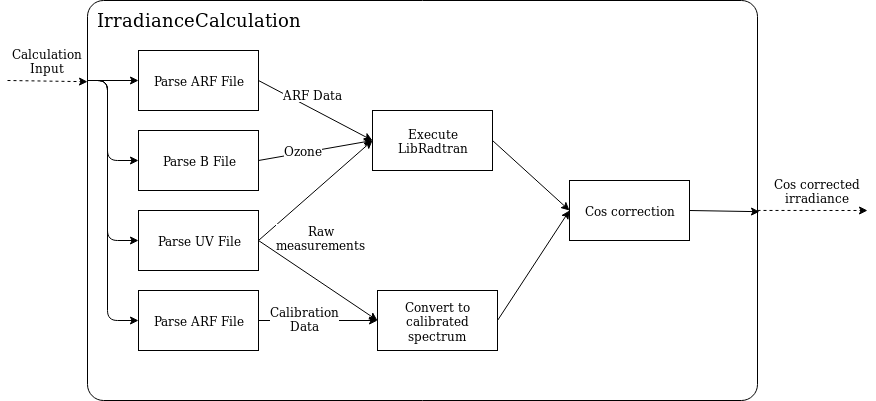
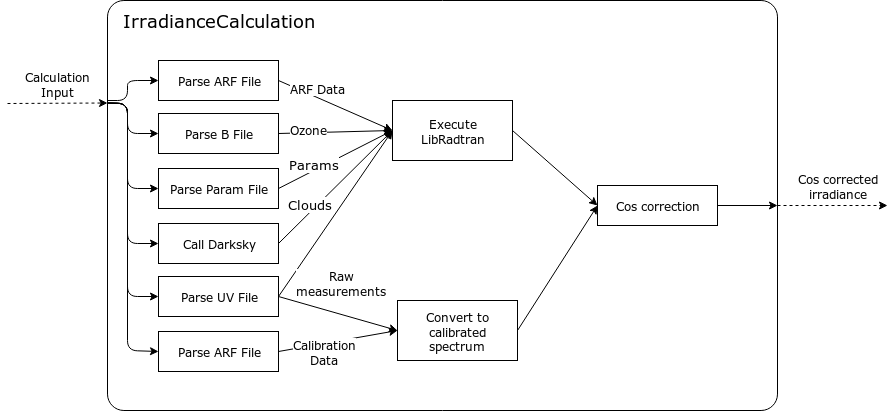
[WIP] Write Implementation details in readme

diff --git a/README.md b/README.md
@@ -19,12 +19,13 @@ This repository contains a set of tools to calculate the cosine corrected irradi
       * [Docker](#docker)
          * [1. UV Server](#1-uv-server)
          * [2. UV Watch](#2-uv-watch)
-      * [Technical Details](#technical-details)
+      * [Implementation](#implementation)
          * [1. User Interface](#1-user-interface)
          * [2. Job creation / handling](#2-job-creation--handling)
          * [3. Calculations](#3-calculations)
+         * [4. Technical details](#4-technical-details)
 
-<!-- Added by: basile, at: Di Dez 10 09:23:59 CET 2019 -->
+<!-- Added by: basile, at: Di Dez 10 10:05:53 CET 2019 -->
 
 <!--te-->
 
@@ -44,6 +45,8 @@ The Docker images require docker
 UV Web Application is a small application running in the browser to facilitate the execution of irradiance calculation.
 
 It offers the possibility to choose dates and a brewer id to automatically find the measurement files from a predefined set or to manually upload measurement files (manual mode).
+
+![GUI](assets/gui.png)
 
 **Instructions:**
 
@@ -293,13 +296,14 @@ You might need to skip this option on Windows.
 After running this command, any new pair of UV and B files added/modified in `<WATCH_PATH>` will automatically be converted an irradiance spectrum saved in `<OUT_PATH>`
 
 
-## Technical Details
+## Implementation
 
-The technical details will split the functionality of the application in the following parts:
+For this implementation section, we will split the functionality of the application in the following parts:
 
 1. User Interface
 2. Job creation / handling
 3. Calculations
+4. Technical details
 
 
 ![Technical details](assets/technical_detail_1.png)
@@ -333,7 +337,7 @@ and brewer id as input). They keep track of the values of their fields and of th
 
 ### 2. Job creation / handling
 
-Job creation and handling is done in the class `CalculationUtils` of [`uv/logic/calculation_utils.py`](uv/logic/calculation_utils.py).
+Job creation and handling is done in the class [`CalculationUtils`](uv/logic/calculation_utils.py).
 
 Before creating the jobs, all the information required for the Jobs is written in a `CalculationInput` object.
 Each `CalculationInput` corresponds to one UV file (measurements for one day). Since multiple measurements are done each day (in each UV
@@ -355,3 +359,36 @@ Their results will then be scheduled on a `ProcessPoolExecutor` for the generati
 
 
 ### 3. Calculations
+
+The calculations executed in each Job from the [previous section](#2-job-creation--handling) are mostly implemented in
+[`IrradianceCalculation`](uv/logic/irradiance_calculation.py).
+The entry point in this class for the calculations is the method `calculate` as explained in the [previous section](#2-job-creation--handling),
+this method has access to a `CalculationInput` object for infos about the measurement files and extra parameters as well as the index of the
+section to do the calculations for.
+
+![Calculation workflow](assets/technical_detail_2.png)
+
+The first part of the calculations is to parse the measurement files to get the data from. Each file type has its own file parser. Their
+implementations can be found in the files [`uv/logic/uv_file.py`](uv/logic/uv_file.py), [`uv/logic/b_file.py`](uv/logic/b_file.py),
+[`uv/logic/arf_file.py`](uv/logic/arf_file.py), [`uv/logic/calibration_file.py`](uv/logic/calibration_file.py) and
+[`uv/logic/parameter_file.py`](uv/logic/parameter_file.py).
+
+Note that the file parsing is triggered automatically (and cached) when calling one of the following property on the `CalculationInput`:
+* `uv_file_entries`: parses the uv file
+* `ozone`: parses the b file
+* `calibration`: parses the calibration file
+* `arf`: parses the arf file
+* `parameters`: parses the parameter file
+
+In addition to parsing the files, an api call is made to [darksky.net](https://darksky.net/dev) to get the cloud cover for the day of the
+measurements. This information is used to choose between a clear sky or a diffuse cos correction.
+
+In the next step, the raw measurements and the calibration data is used to convert the raw UV measurements to a calibrated spectrum.
+A call to LibRadtran is also made with the infos from the measurement and parameter files to get `Fdiff`, `Fdir` and `Fglo`.
+
+Finally, the results from LibRadtran and from the darksky.net api call are used to apply the cos correction to the calibrated
+spectrum.
+This information as well as the input parameters used is returned from the `calculate` method as a `Result` object.
+
+
+### 4. Technical details
